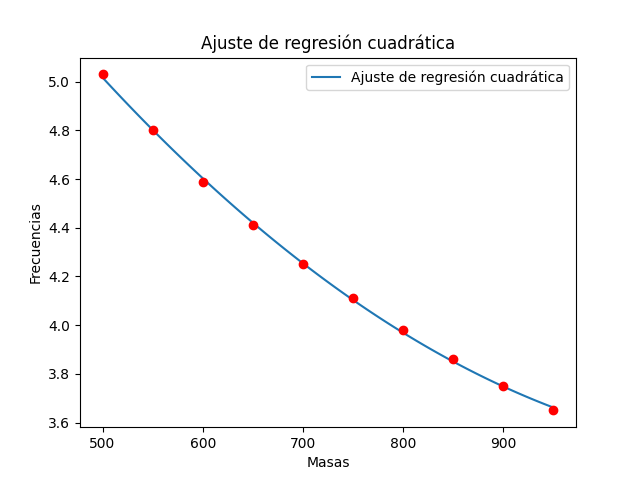
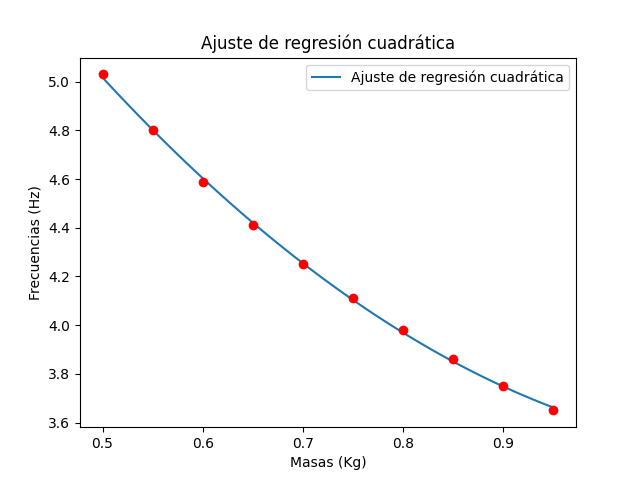
implementado no lineal-finalizado

diff --git a/main.py b/main.py
@@ -1,16 +1,15 @@
-
 # Importamos librerias
 import numpy as np
 import matplotlib.pyplot as plt
-import scipy.optimize as opt
 from sklearn.metrics import r2_score
+from scipy.optimize import curve_fit
 
 # Definimos funciones
 def GeneratePlotsinAjuste(mass_array, frequency_array, img_name="frecuencia_vs_masa.png"):  # Generar la imagen sin el ajuste
     plt.plot(mass_array, frequency_array)
     plt.plot(mass_array, frequency_array, 'ro')   # Crear el grafico, en el eje "x": la masa y en el eje "y": la frecuencia
-    plt.xlabel('masa')
-    plt.ylabel('frecuencia')
+    plt.xlabel('Masas (Kg)')
+    plt.ylabel('Frecuencias (Hz)')
     plt.title('Frecuencia VS Masa')
     plt.savefig("images/" + img_name)               # Guarda la imagen de la grafica
     plt.close()
@@ -22,10 +21,10 @@ def GenerateLinearRegressionPlot(mass_array, frequency_array, img_name="frecuenc
     # Calcular los valores de "y" para la línea de regresión
     line_fit = m * np.array(mass_array) + b                         # Genero la funcion lineal que me botara las frecuencias ajustadas linealmente
     # Crear el gráfico con el ajuste de regresión lineal
-    plt.plot(mass_array, frequency_array, 'ro', label='Datos')       # Grafico la masa y frecuencia original
-    plt.plot(mass_array, line_fit, label='Regresión lineal')         # Grafico la masa, y la frecuencia ajustada a una regresion lineak
-    plt.xlabel('masa')
-    plt.ylabel('frecuencia')
+    plt.plot(mass_array, frequency_array, 'ro')       # Grafico la masa y frecuencia original
+    plt.plot(mass_array, line_fit, label='Ajuste de regresión lineal')         # Grafico la masa, y la frecuencia ajustada a una regresion lineak
+    plt.xlabel('Masas (Kg)')
+    plt.ylabel('Frecuencias (Hz)')
     plt.title('Frecuencia VS Masa - ajuste de regresión lineal')
     plt.legend()
     plt.savefig("images/" + img_name)
@@ -36,8 +35,7 @@ def GenerateLinearRegressionPlot(mass_array, frequency_array, img_name="frecuenc
     print("m = " + str(m))
     print("b = " + str(b))
     r2 = r2_score(frequency_array, line_fit)
-    print("COEFICIENTE DE DETERMINACION r^2:")
-    print(f"r^2 = {r2}\n")
+    print(f"Coeficiente de determinación (R²): {r2}\n")
     plt.close()
 
 def GenerateCuadraticaRegressionPlot(mass_array, frequency_array, img_name="cuadratica_regression.png"):
@@ -51,8 +49,8 @@ def GenerateCuadraticaRegressionPlot(mass_array, frequency_array, img_name="cuad
     # Graficar el ajuste de regresión cuadrática
     plt.plot(masas_fit, frecuencias_fit, label='Ajuste de regresión cuadrática')        # Grafico la masa uniforme, y la frecuencia ajustada a una regresion cuadratica
     plt.plot(mass_array, frequency_array, 'ro')                                         # Grafico la masa y frecuencia original
-    plt.xlabel('Masas')
-    plt.ylabel('Frecuencias')
+    plt.xlabel('Masas (Kg)')
+    plt.ylabel('Frecuencias (Hz)')
     plt.title('Ajuste de regresión cuadrática')
     plt.legend()
     plt.savefig("images/" + img_name)
@@ -64,28 +62,43 @@ def GenerateCuadraticaRegressionPlot(mass_array, frequency_array, img_name="cuad
     print("a = " +str(coef[0]))
     print("b = " +str(coef[1]))
     print("c = " +str(coef[2]))
-    print("COEFICIENTE DE DETERMINACION r^2:")
-    print(f"r^2 = {r2}")
+    print(f"Coeficiente de determinación (R²): {r2}\n")
     plt.close()
 
-def ReadCsv(filename="calculo.csv"):  # Leer el archivo csv
-    data_matrix = []
-
-    import csv
-    with open(filename, 'r') as csvfile:
-        file = csv.reader(csvfile, delimiter=',')
-        for row in file:
-            row[0] = int(row[0])
-            row[1] = float(row[1])
-            data_matrix.append(row)
-
-    return np.array(data_matrix)  # Convertir el archivo a una matriz
+def exponential_func(x, a, b, c):
+    return a * np.exp(b * x) + c
+def GenerateRegressionNoLineal(mass_array, frequency_array, img_name="exponencial_regresion_exponencial.png"):
+    popt, _ = curve_fit(exponential_func, mass_array, frequency_array)
+    # Valores para la curva ajustada
+    frecuencias_fit = exponential_func(mass_array, *popt)
+    # Gráfico de los datos y la curva ajustada
+    plt.plot(mass_array, frecuencias_fit, label='Ajuste de regresión no lineal')
+    plt.plot(mass_array, frequency_array, 'ro')
+    plt.xlabel('Masas (Kg)')
+    plt.ylabel('Frecuencias (Hz)')
+    plt.title('Ajuste de regresión no lineal - Función exponencial')
+    plt.legend()
+    plt.savefig("images/" + img_name)
+    r2 = r2_score(frequency_array,  frecuencias_fit)
+    print("Ajuste Regresion No Lineal - Exponencial:")
+    print("y = a * e^(bx) + c")
+    print("y = " + str(popt[0]) + " * e^(" + str(popt[1]) + "x) + " + str(popt[2]))
+    print("Parametros de ajuste:")
+    print("a = " +str(popt[0]))
+    print("b = " +str(popt[1]))
+    print("c = " +str(popt[2]))
+    print(f"Coeficiente de determinación (R²): {r2}\n")
+    plt.close()
 
 if __name__ == '__main__':  # Inicializar el programa
     data_matrix = np.loadtxt('datos.txt', delimiter=',')
-    x = data_matrix[:, 0]
-    y = data_matrix[:, 1]
+    x = data_matrix[:, 0]       # masas de la data (g.)
+    x_kg = x/1000               # por conveniencia y para que al modelar la exponencial no haya desbordamiento de datos lo pasaremos todo a kg,
+                                #  aunque en gramos es lo mismo ya que tienen el mismo R² y misma grafica
+    y = data_matrix[:, 1]       # frecuencias de la data (Hz)
+    import pylatexenc
 
-    GeneratePlotsinAjuste(x, y, "frecuencia_vs_masa.png")
-    GenerateLinearRegressionPlot(x,y,"linear_regression.png")
-    GenerateCuadraticaRegressionPlot(x,y,"cuadratica_regresion.png")
+    GeneratePlotsinAjuste(x_kg, y, "frecuencia_vs_masa.png")
+    GenerateLinearRegressionPlot(x_kg,y,"linear_regression.png")
+    GenerateCuadraticaRegressionPlot(x_kg,y,"cuadratica_regresion.png")
+    GenerateRegressionNoLineal(x_kg,y,"exponencial_regresion_exponencial.png")
